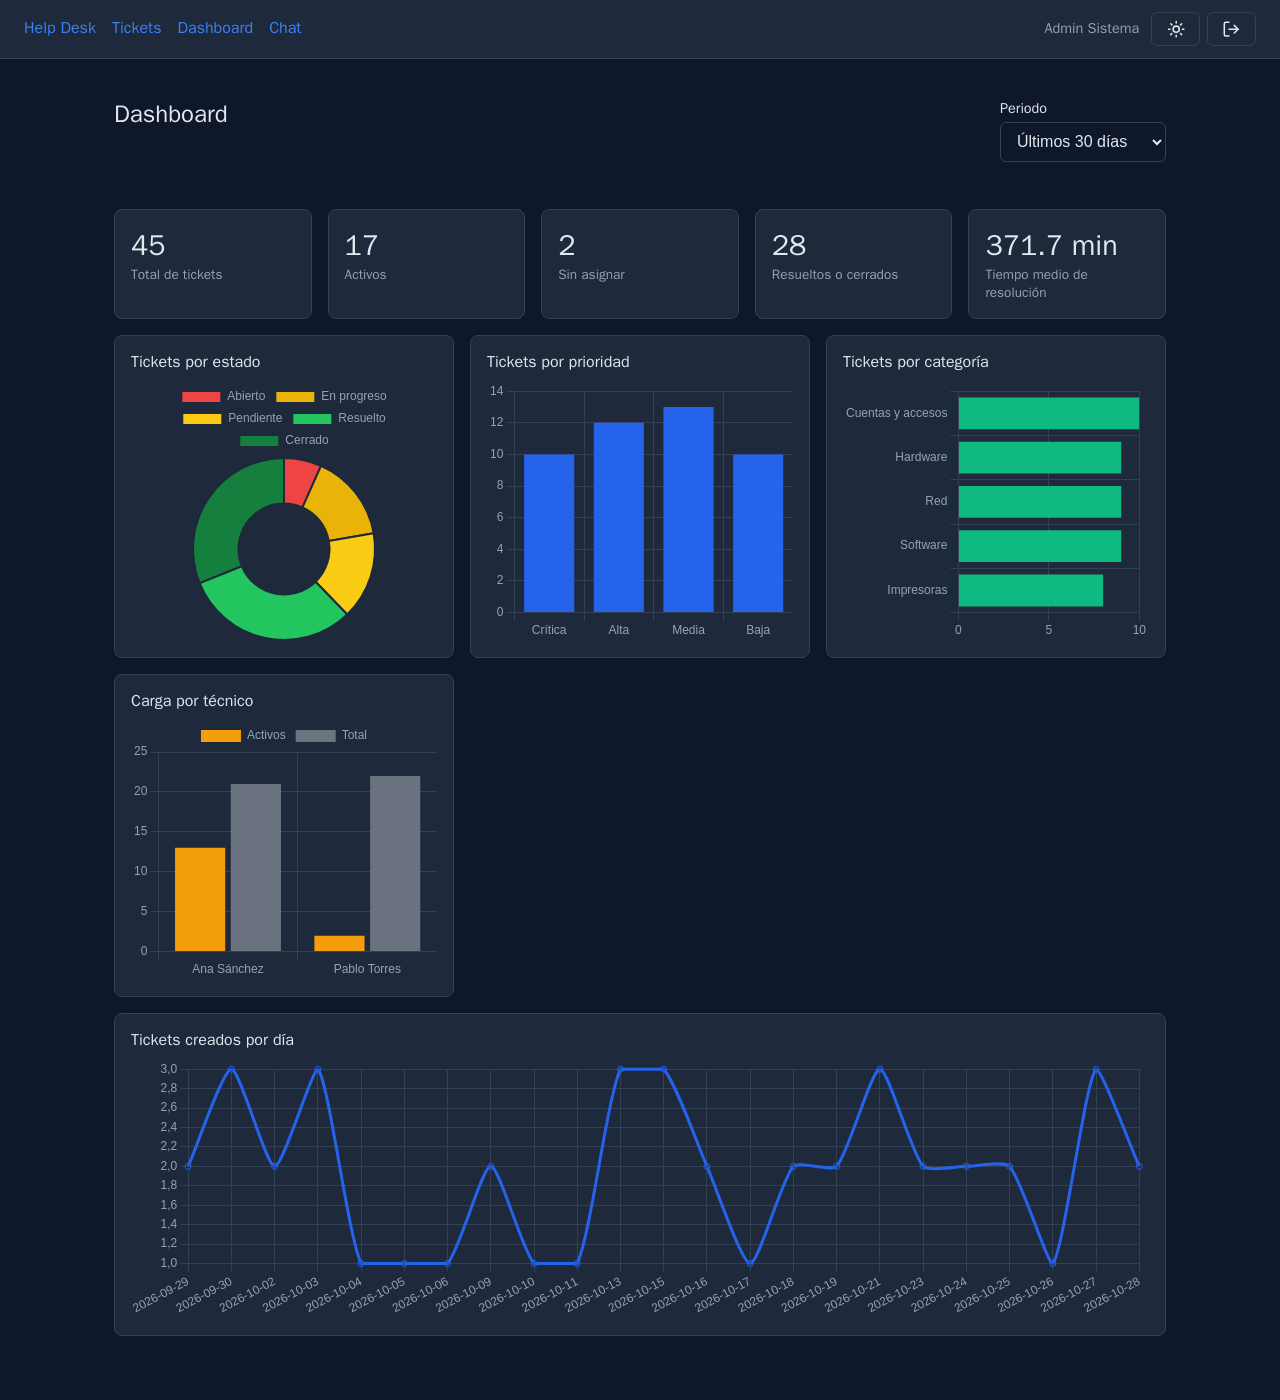
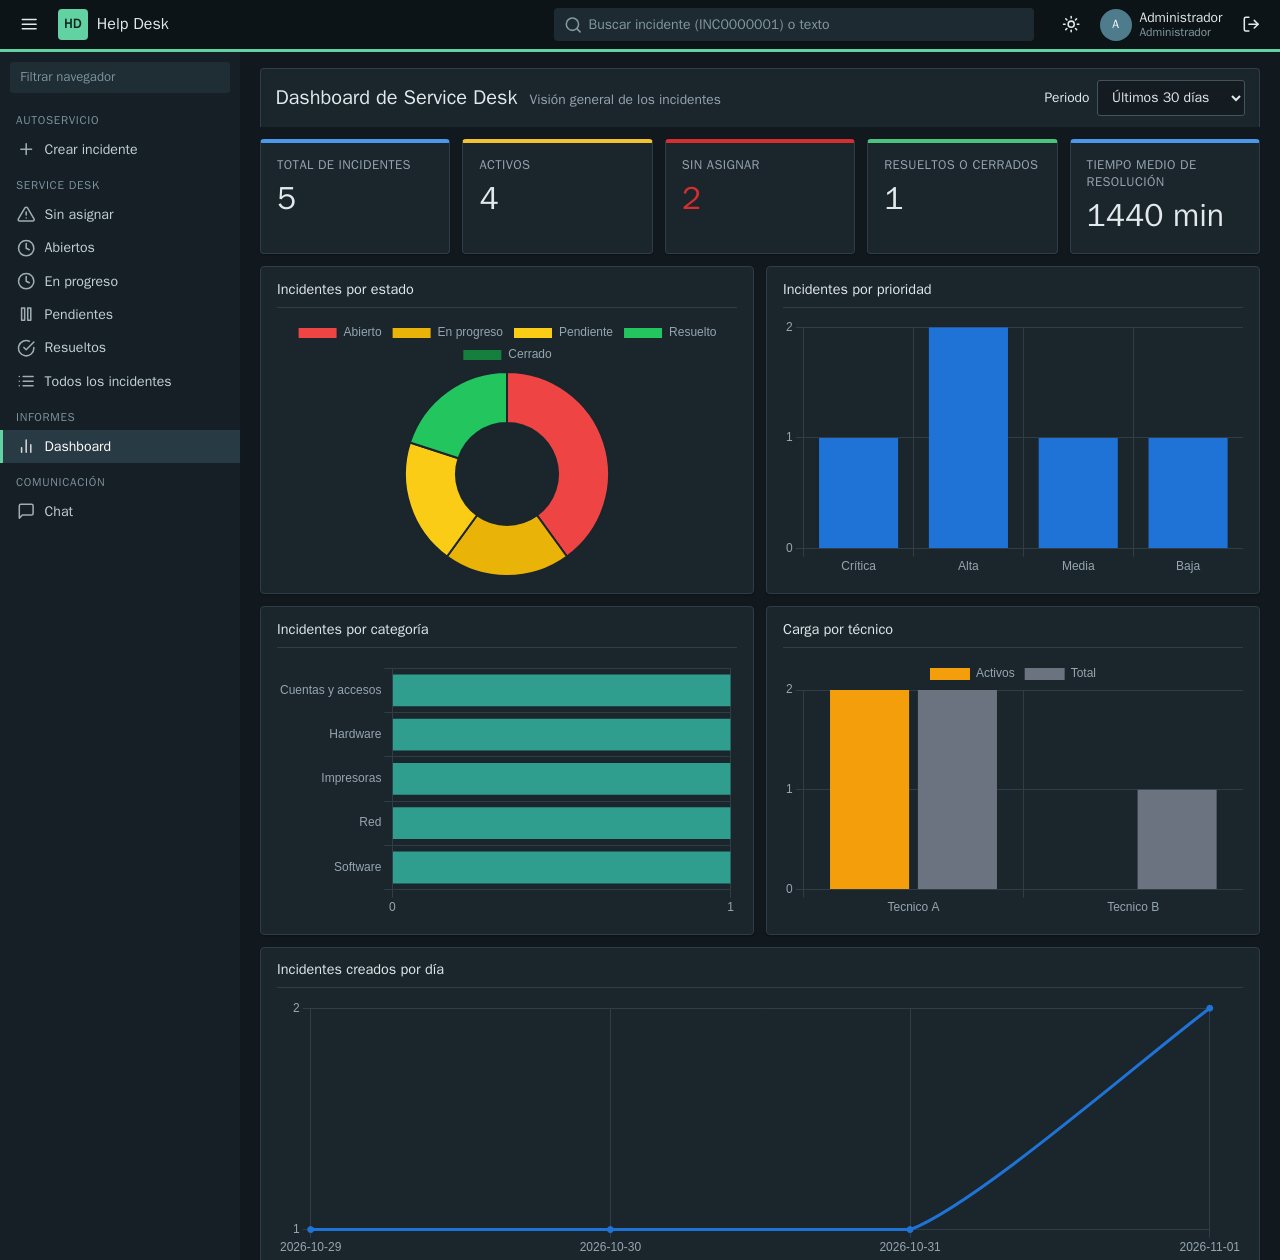
docs: update README and screenshots to the ITSM-style UI
- Describe the ITSM console interface: INC numbers, global search,
  role-aware navigator, list views and the incident form with its
  state actions.
- Update the guided tour and add the state/button table.
- Regenerate all README screenshots with the new design.
- Fix the list description column overflowing at 1280px and the
  hidden mobile navigator casting a shadow on the left edge.

diff --git a/frontend/css/style.css b/frontend/css/style.css
@@ -311,7 +311,7 @@ body.nav-collapsed .sidebar { display: none; }
   text-align: left; padding: 0.42rem 0.7rem; border-bottom: 1px solid var(--border);
   font-size: 0.86rem; white-space: nowrap;
 }
-.list-table td:nth-child(2) { white-space: normal; min-width: 16rem; }
+.list-table td:nth-child(2) { white-space: normal; min-width: 11rem; }
 .list-table th {
   background: var(--th-bg); font-weight: 600; font-size: 0.8rem; color: var(--muted);
   border-bottom: 2px solid var(--border-strong); position: sticky; top: 0;
@@ -514,10 +514,10 @@ a.kpi:hover { background: var(--row-hover); }
 @media (max-width: 900px) {
   .sidebar {
     display: block; position: fixed; top: 3.25rem; bottom: 0; left: 0; z-index: 15;
-    transform: translateX(-100%); transition: transform 0.2s ease; box-shadow: 4px 0 16px rgba(0, 0, 0, 0.25);
+    transform: translateX(-100%); transition: transform 0.2s ease;
   }
   body.nav-collapsed .sidebar { display: block; }
-  body.nav-open .sidebar { transform: none; }
+  body.nav-open .sidebar { transform: none; box-shadow: 4px 0 16px rgba(0, 0, 0, 0.25); }
   .field-grid { grid-template-columns: 1fr; }
   .who-text { display: none; }
 }

diff --git a/README.md b/README.md
@@ -10,10 +10,14 @@ Sistema de **gestión de incidencias de soporte técnico** (help desk) para una
 empresa: los empleados abren tickets, los técnicos los asignan, diagnostican y
 resuelven, y el administrador lo supervisa todo desde un dashboard.
 
+La interfaz sigue el estilo de las **consolas ITSM** profesionales (tipo
+ServiceNow): incidentes numerados `INC0000001`, navegador lateral con vistas,
+listas densas y formulario de incidente con flujo de estados.
+
 Incluye un **chat en tiempo real** entre usuarios y técnicos para intentar
 resolver el problema **en remoto antes de desplazarse** al puesto.
 
-![Chat entre usuaria y técnico](docs/img/chat.png)
+![Listado de incidentes](docs/img/tickets.png)
 
 ---
 
@@ -40,19 +44,23 @@ resolver el problema **en remoto antes de desplazarse** al puesto.
 
 ## Funcionalidades
 
-**Tickets**
-- Alta de incidencias con prioridad (Baja → Crítica), categoría y equipo afectado.
+**Incidentes**
+- Alta de incidencias con prioridad (`1 - Crítica` … `4 - Baja`), categoría y
+  equipo afectado (se preselecciona el del solicitante).
+- Cada incidente se identifica con un número tipo `INC0000012`.
 - Flujo de estados con reglas de negocio: no se trabaja un ticket sin técnico
   asignado ni se resuelve sin **diagnóstico y solución**.
 - Cálculo automático del **tiempo de resolución**.
-- Comentarios e **historial de auditoría** de cada cambio (quién, qué y cuándo).
+- Comentarios e **historial de auditoría** de cada cambio (quién, qué y
+  cuándo), mostrados juntos en un **flujo de actividad**.
 - Búsqueda de texto, filtros (estado, prioridad, categoría, técnico, fechas,
-  sin asignar), ordenación y paginación. Rápida incluso con 50 000 tickets
-  gracias a índices `pg_trgm`.
+  sin asignar), ordenación por columna y paginación. Rápida incluso con
+  50 000 tickets gracias a índices `pg_trgm`.
 
 **Dashboard** (técnicos y administradores)
 - KPIs: total, activos, sin asignar, resueltos y tiempo medio de resolución.
-- Gráficos por estado, prioridad, categoría, carga por técnico y tickets por día.
+  Al pulsarlos se abre la lista filtrada.
+- Gráficos por estado, prioridad, categoría, carga por técnico e incidentes por día.
 
 **Chat**
 - Conversaciones 1 a 1 con aspecto de app de mensajería: checks de
@@ -62,23 +70,37 @@ resolver el problema **en remoto antes de desplazarse** al puesto.
   la conexión no está disponible.
 - Botón **"Chatear con…"** en cada ticket y contador de no leídos en la barra.
 
-**Interfaz**
+**Interfaz (estilo consola ITSM)**
+- **Cabecera** con buscador global: un número (`INC0000012` o `12`) abre el
+  incidente; cualquier otro texto lo busca en todos.
+- **Navegador lateral** según el rol, con buscador propio. Empleado: *Crear
+  incidente*, *Mis incidentes* y *Chat*. Personal técnico: además *Asignados a
+  mí*, *Sin asignar*, *Abiertos*, *En progreso*, *Pendientes*, *Resueltos*,
+  *Todos los incidentes* y *Dashboard*.
+- **Listas** compactas con columnas ordenables, migas de filtro
+  (`Todos > Estado = Abierto`, cada condición con su ×) y paginador
+  (`1 a 20 de 45`). Se abre el incidente pulsando en cualquier parte de la fila.
+- **Formulario del incidente**: flujo de estados en flechas, botones de acción
+  en la cabecera (*Iniciar trabajo*, *Poner en espera*, *Reanudar*, *Resolver*,
+  *Cerrar*, *Reabrir*, *Actualizar*), campos en dos columnas y pestañas
+  *Notas* e *Información de resolución*.
 - Modo **claro y oscuro**, que se recuerda y sigue al sistema la primera vez.
 - Estados con código de color: 🔴 abierto · 🟡 en progreso / pendiente ·
   🟢 resuelto / cerrado.
-- Adaptada a móvil. HTML, CSS y JavaScript **sin frameworks** ni CDNs.
+- Adaptada a móvil (el navegador lateral se despliega con el botón ☰). HTML,
+  CSS y JavaScript **sin frameworks** ni CDNs.
 
 ---
 
 ## Capturas
 
-| Listado de tickets | Detalle (vista del técnico) |
+| Formulario del incidente (técnico) | Dashboard (modo oscuro) |
 |---|---|
-| ![Listado de tickets](docs/img/tickets.png) | ![Detalle de un ticket](docs/img/ticket.png) |
+| ![Formulario de un incidente](docs/img/ticket.png) | ![Dashboard](docs/img/dashboard.png) |
 
-| Dashboard (modo oscuro) | Chat en el móvil |
+| Chat entre técnico y empleado | Chat en el móvil |
 |---|---|
-| ![Dashboard](docs/img/dashboard.png) | ![Chat en móvil](docs/img/chat-mobile.png) |
+| ![Chat](docs/img/chat.png) | ![Chat en móvil](docs/img/chat-mobile.png) |
 
 <details>
 <summary>Chat en modo oscuro</summary>
@@ -140,17 +162,22 @@ Genera 50 000 tickets `BULK-` para probar búsquedas y dashboard con volumen.
 Abre dos ventanas: una normal y otra de incógnito (cada pestaña tiene su
 propia sesión).
 
-1. **Empleado A** (`empleadoA@empresa.test`) pulsa **Nuevo ticket** y describe un
-   problema. Solo ve sus propios tickets.
-2. **Tecnico A** (`tecnicoA@empresa.test`) abre el ticket, se lo **asigna** y lo
-   pasa a **En progreso**.
+1. **Empleado A** (`empleadoA@empresa.test`) pulsa **Crear incidente** en el
+   menú lateral, rellena la breve descripción y la descripción y pulsa
+   **Enviar**. En **Mis incidentes** solo ve los suyos.
+2. **Tecnico A** (`tecnicoA@empresa.test`) abre **Sin asignar**, entra en el
+   nuevo incidente, se lo asigna en el campo **Asignado a** y pulsa
+   **Iniciar trabajo**. Ahora aparece en **Asignados a mí**.
 3. Tecnico A pulsa **Chatear con Empleado A**: se abre el chat con
    *"Sobre el ticket #N: "* ya escrito. Empleado A ve el mensaje al instante, el
    contador rojo de **Chat** y a Tecnico A **"escribiendo…"**.
-4. Resuelto en remoto: Tecnico A registra **diagnóstico y solución** y pasa el
-   ticket a **Resuelto**. El historial lo deja todo registrado.
-5. Entra como **Administrador** (`administrador@empresa.test`) y abre el **Dashboard**. Prueba el modo oscuro con el
-   botón de la luna.
+4. Resuelto en remoto: en la pestaña **Información de resolución**, Tecnico A
+   rellena **diagnóstico y solución** y pulsa **Resolver**. La pestaña
+   **Notas** muestra toda la actividad.
+5. Prueba el buscador de la cabecera escribiendo el número del incidente
+   (por ejemplo `INC0000001`).
+6. Entra como **Administrador** (`administrador@empresa.test`) y abre el
+   **Dashboard**. Prueba el modo oscuro con el botón de la luna.
 
 ---
 
@@ -201,6 +228,17 @@ stateDiagram-v2
 
     EnProgreso: En progreso
 ```
+
+En el formulario, cada transición es un botón de la cabecera:
+
+| Desde | Botón | Hasta |
+|---|---|---|
+| Abierto | Iniciar trabajo | En progreso |
+| En progreso | Poner en espera | Pendiente |
+| Pendiente | Reanudar | En progreso |
+| En progreso | Resolver | Resuelto |
+| Resuelto | Cerrar | Cerrado |
+| Resuelto | Reabrir | En progreso |
 
 Las reglas se validan en la API (`409` si la transición no está permitida y
 `422` si faltan diagnóstico o solución). Cada cambio queda en `ticket_history`
@@ -401,7 +439,13 @@ docker run --rm --network helpdesk-ticketing-system_backend \
 │   ├── tests/                 # pytest
 │   ├── scripts/               # Utilidades de desarrollo
 │   └── Dockerfile
-├── frontend/                  # Páginas HTML, css/ y js/ (sin frameworks)
+├── frontend/
+│   ├── *.html                 # login, listado, incidente, alta, dashboard y chat
+│   ├── css/style.css          # Estilos (tema claro/oscuro y móvil)
+│   └── js/
+│       ├── api.js             # Llamadas a la API, sesión y utilidades comunes
+│       ├── layout.js          # Cabecera, buscador global y navegador lateral
+│       └── …                  # Un script por página (sin frameworks)
 ├── database/                  # Scripts SQL (ver "Modelo de datos")
 ├── nginx/
 │   ├── helpdesk.docker.conf   # Para docker compose

diff --git a/CHANGELOG.md b/CHANGELOG.md
@@ -25,6 +25,7 @@ versionado semántico (https://semver.org/).
 - Interfaz rediseñada al estilo de una consola ITSM: cabecera oscura con buscador global (por número `INC0000001` o texto), navegador lateral con vistas por rol (Mis incidentes, Asignados a mí, Sin asignar, Abiertos, En progreso, Pendientes, Resueltos, Todos), listas densas con columnas ordenables, migas de filtro y paginador, y formulario de incidente con flujo de estados, botones de acción (Iniciar trabajo, Poner en espera, Resolver, Cerrar, Reabrir), campos en dos columnas, pestañas de notas y de resolución, y flujo de actividad que une comentarios e historial. Nuevo `frontend/js/layout.js` con la estructura común.
 - Alta de incidentes con equipo afectado (preseleccionado el del solicitante) y prioridad en formato `1 - Crítica` … `4 - Baja`.
 - Indicadores del dashboard enlazados a la lista filtrada y ejes sin decimales.
+- README y capturas de `docs/img/` actualizados a la nueva interfaz.
 - Seed reducido a 5 usuarios (`administrador`, `tecnicoA`, `tecnicoB`, `empleadoA`, `empleadoB` `@empresa.test`) con contraseña = nombre sin espacios + `Help2026`.
 - El login no distingue mayúsculas en el email.
 - Estados de ticket con código de color: rojo (Abierto), amarillo (En progreso, Pendiente) y verde (Resuelto, Cerrado), también en el gráfico del dashboard.
